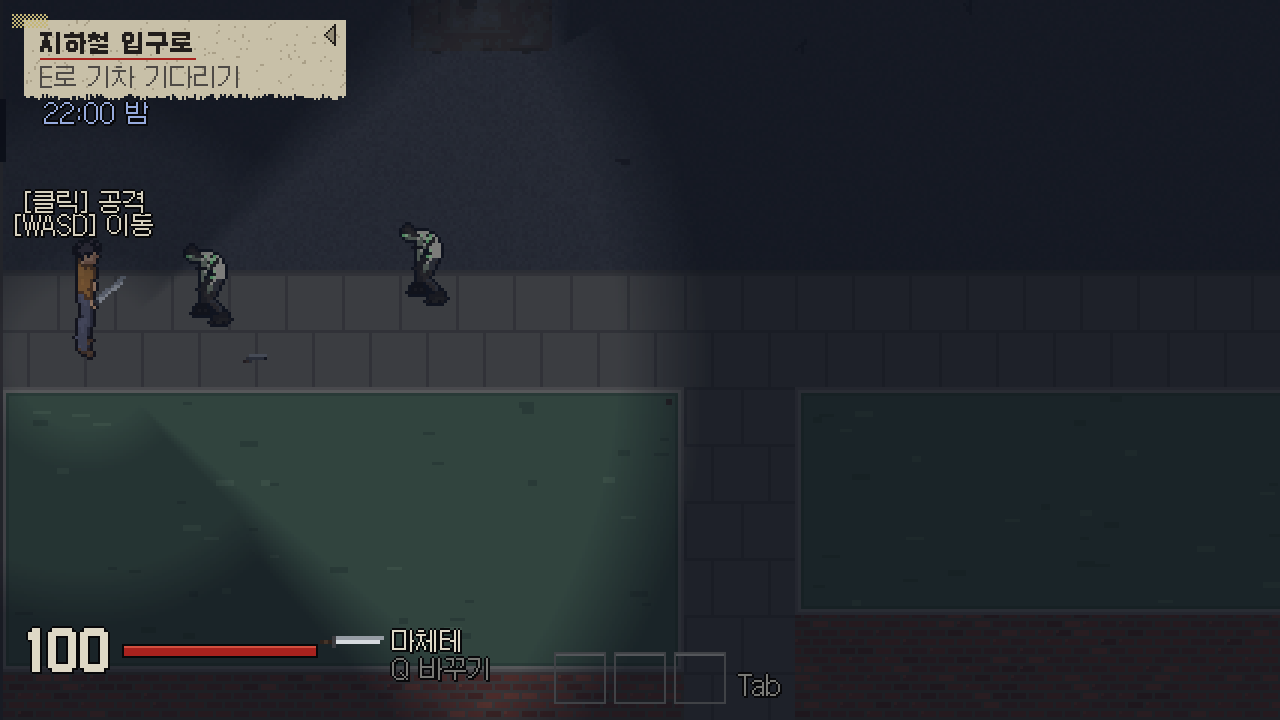
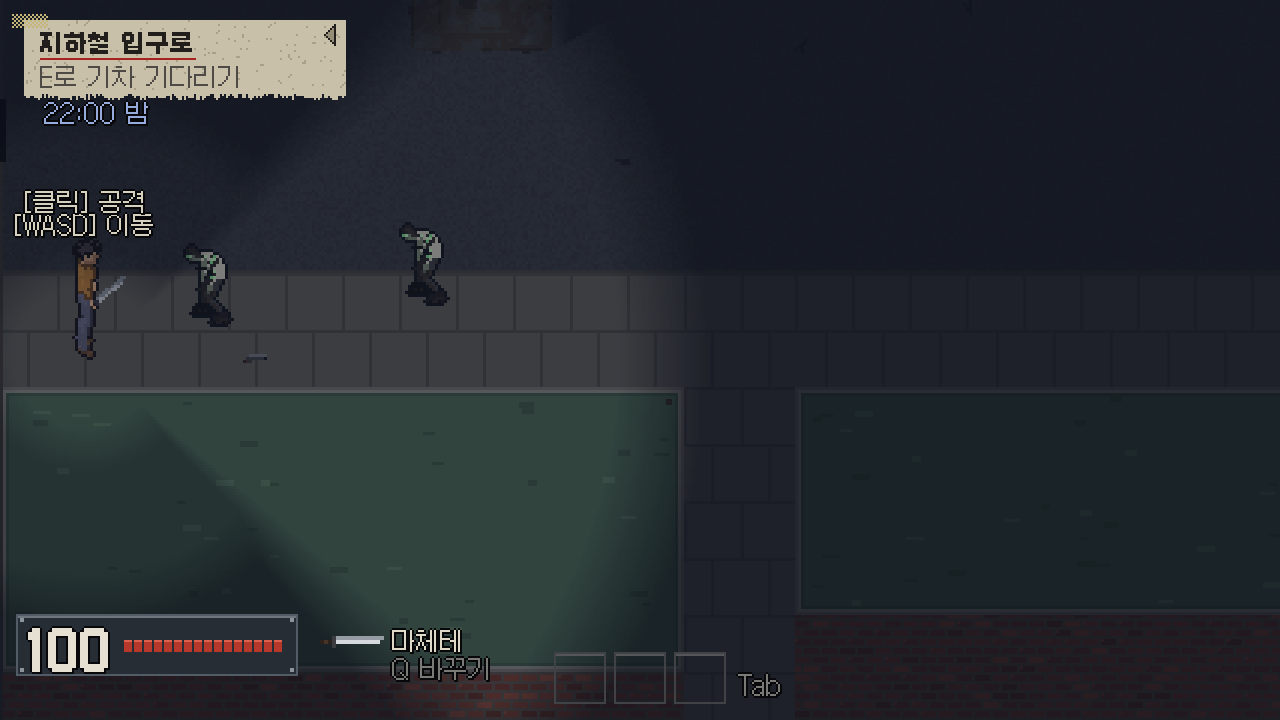
아트 바이블 첫 적용: 체력판 금속판·리벳·눈금 막대
- 바이블 0장: 많이 보이는 것부터(HUD -> 주인공 -> 피폭체 -> 골목 한 칸)
- hud.metal_plate/tick_bar 공용 조각, F4 비교
- 전후 그림, 계획서, 작업판, RESEARCH_INDEX, DEVLOG

Changed region(s): [[0.0938, 0.8556, 0.25, 0.9167], [0.0, 0.9167, 0.0312, 0.9472], [0.0, 0.8556, 0.0312, 0.8861]]

diff --git a/src/hud.py b/src/hud.py
@@ -158,6 +158,37 @@ def health_shares(game):
     return shown, trail
 
 
+# ART_BIBLE.md (2026-11-25) UI pieces: things the hero carries - a dark blue-grey metal plate with a
+# rusty edge and rivets, bars cut into ticks, paper-coloured figures. F4 "HUD 아트 바이블" compares.
+BIBLE_HUD = True
+PLATE, PLATE_EDGE, PLATE_LIT, RIVET = (38, 45, 53), (82, 92, 102), (110, 119, 128), (140, 148, 155)
+PAPER, BIBLE_RED, BIBLE_RED_DARK, BIBLE_AMBER = (230, 224, 210), (184, 57, 44), (142, 42, 34), (217, 130, 43)
+
+
+def metal_plate(l, t, r, b):
+    """A riveted plate: dark fill, a 1 px rusty edge, a lit top line, a rivet in each corner."""
+    px.rect(l, t, r, b, PLATE)
+    px.frame(l, t, r, b, PLATE_EDGE)
+    px.rect(l + 1, t + 1, r - 1, t + 1, PLATE_LIT)
+    for cx, cy in ((l + 2, t + 2), (r - 3, t + 2), (l + 2, b - 3), (r - 3, b - 3)):
+        px.rect(cx, cy, cx + 1, cy + 1, RIVET)
+
+
+def tick_bar(l, t, ticks, shown, trail, colour=BIBLE_RED, width=4, gap=1, height=6):
+    """A bar of separate ticks (ART_BIBLE 6): full ticks in colour, the just-lost part pale, the rest dark."""
+    for i in range(ticks):
+        x = l + i * (width + gap)
+        edge = (i + 1) / ticks
+        if shown >= edge - 0.5 / ticks:
+            fill, top = colour, (220, 96, 76)
+        elif trail >= edge - 0.5 / ticks:
+            fill, top = (150, 120, 112), (170, 140, 132)
+        else:
+            fill, top = (26, 32, 38), (26, 32, 38)
+        px.rect(x, t, x + width - 1, t + height - 1, fill)
+        px.rect(x, t, x + width - 1, t, top)
+
+
 def draw_status(game):
     """Bottom left: health (number + a square pixel bar with the pale trail) and only the statuses
     that ask for something - bleeding (bandage), slowed - plus sneaking. Wounds are in the bag."""
@@ -172,15 +203,20 @@ def draw_status(game):
         px.text(wx + img.w * 2 + 8 + px.width(w["name"]), y + 2, f"{game.ammo}발", BLOOD if game.ammo <= 0 else ORANGE, bold=True)
     px.text(wx + img.w * 2 + 4, y + 16, "Q 바꾸기", GREY_C)
     pct = max(0, round(hero.hp / HERO_HP * 100))
-    px.text(x, y, f"{pct}", LIGHT if pct > 50 else ORANGE if pct > 25 else BLOOD, bold=True, scale=2)
     shown, trail = health_shares(game)
-    bx, by, bw = x + px.width(f"{pct}", True) * 2 + 6, y + 11, 96          # the bar right after the number
-    px.rect(bx - 1, by - 1, bx + bw, by + 5, (8, 8, 10))
-    if trail > 0:
-        px.rect(bx, by, bx + max(0, int(bw * trail) - 1), by + 4, (150, 120, 112))
-    if shown > 0.005:
-        px.rect(bx, by, bx + max(0, int(bw * shown) - 1), by + 4, BLOOD)
-        px.rect(bx, by, bx + max(0, int(bw * shown) - 1), by, (210, 80, 64))    # 1 px highlight
+    if BIBLE_HUD:                                       # ART_BIBLE 6: a metal plate, a ticked bar
+        metal_plate(x - 6, y - 5, x + 134, y + 25)
+        px.text(x, y, f"{pct}", PAPER if pct > 50 else BIBLE_AMBER if pct > 25 else BIBLE_RED, bold=True, scale=2)
+        tick_bar(x + px.width(f"{pct}", True) * 2 + 6, y + 8, 16, shown, trail)
+    else:
+        px.text(x, y, f"{pct}", LIGHT if pct > 50 else ORANGE if pct > 25 else BLOOD, bold=True, scale=2)
+        bx, by, bw = x + px.width(f"{pct}", True) * 2 + 6, y + 11, 96          # the bar right after the number
+        px.rect(bx - 1, by - 1, bx + bw, by + 5, (8, 8, 10))
+        if trail > 0:
+            px.rect(bx, by, bx + max(0, int(bw * trail) - 1), by + 4, (150, 120, 112))
+        if shown > 0.005:
+            px.rect(bx, by, bx + max(0, int(bw * shown) - 1), by + 4, BLOOD)
+            px.rect(bx, by, bx + max(0, int(bw * shown) - 1), by, (210, 80, 64))    # 1 px highlight
     ix, sy = x - 2, y + 30                      # the status line under the number
     shown_states = []
     if cond.bleeding:

diff --git a/src/dev_tools.py b/src/dev_tools.py
@@ -24,6 +24,7 @@ import sdl2
 import area
 import character_look
 import dodge_fx
+import hud
 import stamina as stamina_rules
 import slash_fx
 import daylight
@@ -281,6 +282,7 @@ ROWS = (
     ("피폭체 멈춤", lambda g: _on(g.dev.freeze), _flip("freeze")),
     ("새 피폭체 안 옴", lambda g: _on(g.dev.no_spawn), _flip("no_spawn")),
     ("피폭체 공격 예고 (빨간 범위)", lambda g: _on(g.dev.tells), _flip("tells")),
+    ("HUD 아트 바이블 (체력판)", lambda g: _on(hud.BIBLE_HUD), lambda g, s: setattr(hud, "BIBLE_HUD", not hud.BIBLE_HUD)),
     ("맞을 때 흔들림·번쩍임", lambda g: _on(g.hit_fx), lambda g, s: setattr(g, "hit_fx", not g.hit_fx)),
     ("피폭체 감각 (F2)", lambda g: _on(g.senses), _senses),
     _slider("피폭체 속도", "zed", *_module_value(infected, "ZOMBIE_SPEED"), 0, 300, 10, lambda v: f"{v:g}"),

diff --git a/docs/DEVLOG.md b/docs/DEVLOG.md
@@ -410,3 +410,4 @@
 - **분위기·UI 조사(2026-11-25):** 사용자 "게임의 분위기, UI적인 측면을 조사". 기존 UI 조사(11-16)를 읽고 분위기·총 중심 UI를 새로 조사. 지금 화면 점검: 밤이 낮과 거의 같음, "핵 재난 한국"이 안 보임, 공기 움직임 없음, 총 정보(탄약·재장전) 없음. 후보 A~H, 추천 E(커서 옆 탄약) → A(밤 어둠). `docs/research/MOOD_UI_2026-11-25.md`.
 - **낮 살짝 밝게(2026-11-25):** 사용자 "낮이 살짝 더 밝으면 괜찮을 듯". 낮을 어둡게 하던 주된 것이 사실 모드의 차가운 덮개(낮밤 같은 알파 70)였음 → 빛에 따라 낮 45·밤 70, 낮 시야 밖 어둡기 60 → 40. 화면 밝기 낮 +10%, 밤 그대로. `day_brighter_compare.png`.
 - **아트 바이블 초안(2026-11-25):** 사용자 "Scavland처럼 UI·UX·그래픽이 통일된 느낌을 미리 정하고 싶다". Scavland 화면 분석 → 선택(회청색+초록 위험, 3/4 탑뷰, 세상 물건 같은 UI) → `docs/planning/ART_BIBLE.md`(색·그래픽·캐릭터·빛·UI·UX·금지·점검표), 색 견본, GPT 기준 장면 요청서.
+- **아트 바이블 첫 적용(2026-11-25):** 사용자 "맵은 작은 부분만, 화면에 많이 노출되는 게 우선". 바이블 0장(HUD → 주인공 → 일반 피폭체 → 골목 한 칸 순서). 왼쪽 아래 체력판을 금속판·리벳·눈금 16칸 막대로, 공용 `metal_plate`·`tick_bar`. F4로 비교.

diff --git a/docs/planning/ART_BIBLE.md b/docs/planning/ART_BIBLE.md
@@ -5,6 +5,20 @@
 - 사용자 선택(2026-11-25): **차가운 회청색 + 초록 위험**, **비스듬한 탑뷰 3/4**, **세상 물건 같은 UI**
 - **모든 그림·UI 작업(GPT·Claude)은 맨 아래 점검표를 통과해야 한다.** 바꾸려면 사용자 확인 후 이 문서를 먼저 고친다.
 
+## 0. 순서 — 많이 보이는 것부터 (2026-11-25 사용자)
+
+> "맵은 작은 부분만 우선 구현하면 됩니다. 우선 화면에 보이는 게 우선이고, 많이 노출되는 게 우선입니다."
+
+| 순위 | 대상 | 왜 |
+|---|---|---|
+| 1 | **HUD**(체력·무기·탄약·쪽지·구르기 점) | 게임 내내 화면에 있음 |
+| 2 | **주인공** | 늘 화면 가운데 |
+| 3 | **일반 피폭체** | 가장 자주 나오는 적 |
+| 4 | **골목 한 칸**(바닥·소품) | 맵은 작은 부분만 먼저 |
+| 5 | 배낭 화면, 원거리 피폭체, 역 등 | 덜 보이는 것 |
+
+바이블은 초안이라 "해 보면서" 고친다: 1순위부터 바이블대로 바꿔 화면에서 보고, 맞지 않으면 바이블을 고친다.
+
 ## 1. 한 줄 콘셉트
 
 > **재가 내리는 차가운 한국 도시, 그 속에서 초록으로 썩어 가는 위험과 붉은 재킷 한 사람.**

diff --git a/docs/plans/2026-11-25_HUD_체력판_바이블.md b/docs/plans/2026-11-25_HUD_체력판_바이블.md
@@ -1,0 +1,16 @@
+# 계획서: 아트 바이블 첫 적용 — 체력판(HUD)
+
+- 작성 2026-11-25 · 상태: **완료**
+- 요청: "맵은 작은 부분만 우선. 화면에 보이는 게 우선이고, 많이 노출되는 게 우선. 아트 바이블 초안이 어떻게 나올지 잘 모르겠지만 일단 해 보는 게 좋아 보이긴 하네요"
+- 바이블 0장 "많이 보이는 것부터": 1순위 HUD. 그중 늘 보이는 **왼쪽 아래 체력판**부터 작게.
+
+## 바꾼 것
+- 체력판: 짙은 회청색 금속판 + 녹슨 테두리 1px + 위쪽 밝은 줄 + 모서리 리벳, 체력은 **눈금 16칸 막대**(바이블 붉은색, 방금 잃은 칸은 옅게), 숫자는 종이색.
+- 공용 `hud.metal_plate()`·`hud.tick_bar()` → 다음 UI(탄약·배낭·알림)도 같은 조각으로.
+- F4 "HUD 아트 바이블 (체력판)"로 전후 비교.
+
+## 확인
+- 숨긴 창 전후 그림 `docs/planning/hud_bible_compare.png`, 무기 그림과 겹치지 않음. check_dev·stamina·ui·feel 통과.
+
+## 손맛(게임 쥬스)
+- 맞으면 칸이 옅어졌다 빠지는 흐름(기존 체력 꼬리)을 눈금으로 유지.

diff --git a/docs/RESEARCH_INDEX.md b/docs/RESEARCH_INDEX.md
@@ -157,6 +157,7 @@
 | [plans/2026-11-25_분위기_UI_조사.md](plans/2026-11-25_분위기_UI_조사.md) | 11-25 | 게임 분위기·UI 조사 | 완료 |
 | [plans/2026-11-25_낮_살짝_밝게.md](plans/2026-11-25_낮_살짝_밝게.md) | 11-25 | 낮 살짝 밝게(사실 모드 덮개 낮 45, 낮 시야 밖 40), 밤 그대로 | 완료 |
 | [plans/2026-11-25_아트바이블_먼저.md](plans/2026-11-25_아트바이블_먼저.md) | 11-25 | 그래픽·UI·UX 기준 먼저(Scavland 분석) | 진행 중 |
+| [plans/2026-11-25_HUD_체력판_바이블.md](plans/2026-11-25_HUD_체력판_바이블.md) | 11-25 | 바이블 첫 적용: 체력판 금속판·눈금 막대 | 완료 |
 | [research/AI_COLLAB_2026-11-25.md](research/AI_COLLAB_2026-11-25.md) | 11-25 | 조사: Claude Code·Codex 함께 쓰기(AGENTS.md 불러오기, 공식 Codex 플러그인, 작업판·폴더 담당) | |
 | [COLLAB_BOARD.md](COLLAB_BOARD.md) | 11-25 | **작업판** — 둘 다 시작·끝에 읽고 고침 | 계속 |
 

diff --git a/docs/COLLAB_BOARD.md b/docs/COLLAB_BOARD.md
@@ -42,6 +42,7 @@
 
 | 날짜 | 누구 | 한 일 | 검수 | 커밋 |
 |---|---|---|---|---|
+| 11-25 | Claude | 아트 바이블 초안 + 첫 적용(체력판 금속판·눈금 막대), 바이블 0장 "많이 보이는 것부터" | 전후 그림 | 이 커밋 |
 | 11-25 | Claude | 낮 살짝 밝게(밝기 +10%, 밤 그대로) — 분위기 후보 중 사용자 요청 | 밝기 숫자 | 이 커밋 |
 | 11-25 | Claude | 분위기·UI 조사(지금 화면 점검 + 후보 A~H) | 화면 3장 | 이 커밋 |
 | 11-25 | Claude | Codex CLI 0.172.0 설치(ChatGPT 로그인 공유), `codex exec` 연결 확인 — 한도 초과로 응답은 못 받음 | 로그인 상태 OK | 이 커밋 |
